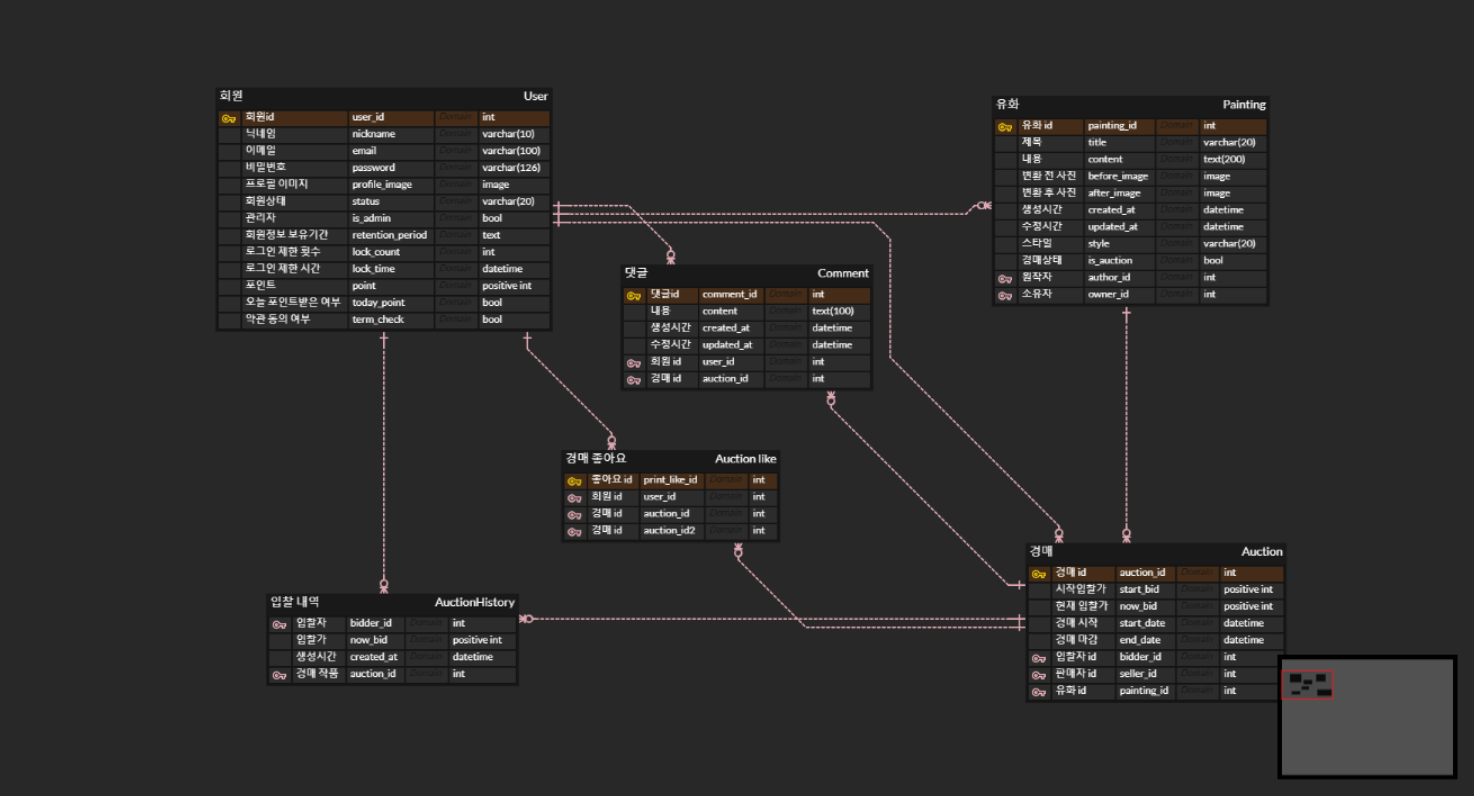
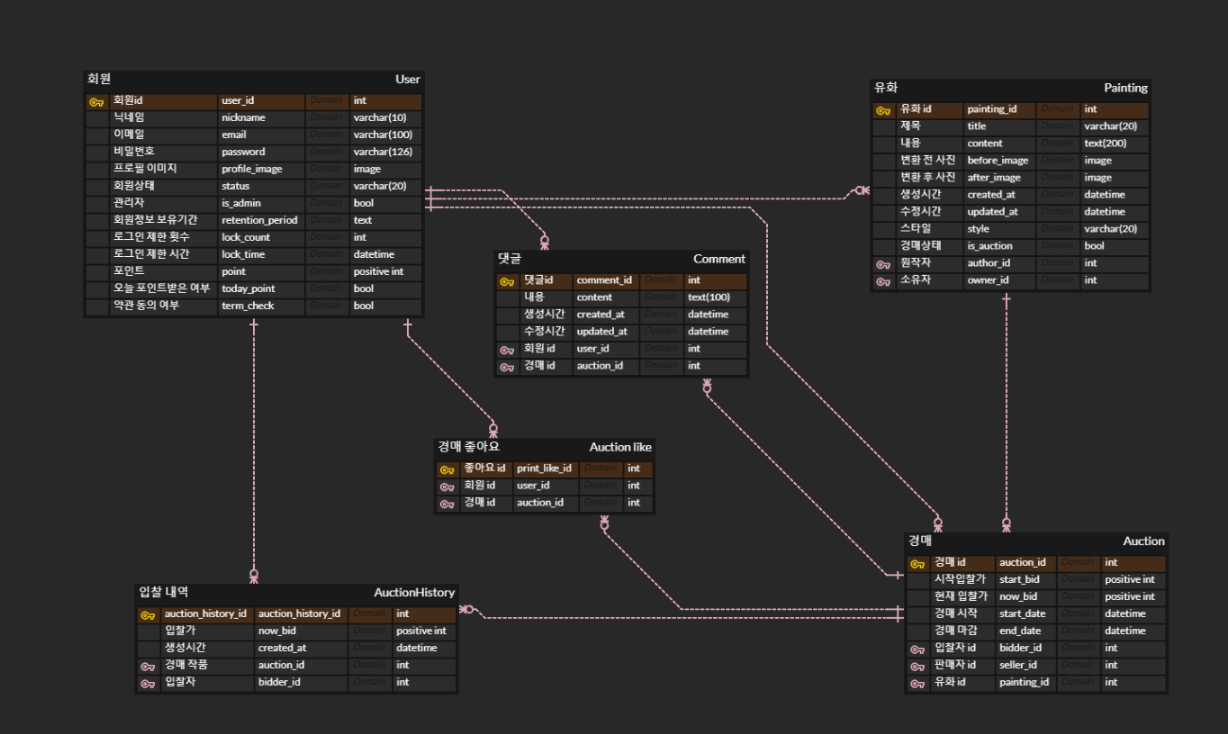
Docs : ERD 수정

diff --git a/static/script/search_api.js b/static/script/search_api.js
@@ -18,13 +18,15 @@ async function searchParam(){
             },
             method:'GET',
         })
-            response_json = await response.json()
-
+            const response_json = await response.json()
+            
         if(response_json.length){
-                const auction_search_view = document.getElementById("auction_search_view")
+            
+                response_json.forEach((item, key) => {
+                    console.log(item)
+                    console.log(item.painting[key])
 
-                response_json.forEach(item => {
-
+                    
                     function diffDay(data) {
                         const masTime = new Date(data);
                         const todayTime = new Date();
@@ -38,24 +40,23 @@ async function searchParam(){
                         return `${diffDay}일 ${diffHour}시간 ${diffMin}분 `;
                     }
     
-                    let remain_end_time = diffDay(item.paintings.end_date)
-                    
-                    const now_bid = item.paintings.now_bid.toString().replace(/\B(?<!\.\d*)(?=(\d{3})+(?!\d))/g, ",");
+                    let remain_end_time = diffDay(item.paintings[key].end_date)
+                    const now_bid = item.paintings[key].now_bid.toString().replace(/\B(?<!\.\d*)(?=(\d{3})+(?!\d))/g, ",");
 
                     $('#auction_search_view').append(
                         `
                         <div class="col-xxl-4 col-xl-4 col-lg-6 col-md-6 mb-6">
                             <div class="explore-style-one">
                                 <div class="thumb">
-                                <a href="auction_details.html?$id=${item.paintings.id}/"><img src="${backendBaseUrl}${item.paintings.painting.after_image}"
+                                <a href="auction_details.html?$id=${item.paintings[key].id}/"><img src="${backendBaseUrl}${item.paintings[key].painting.after_image}"
                                     alt="nft live auction thumbnail"></a>
-                                <button class="reaction-btn"><i class="ri-heart-fill"></i><span>${item.paintings.auction_like_count}</span></button>
+                                <button class="reaction-btn"><i class="ri-heart-fill"></i><span>${item.paintings[key].auction_like_count}</span></button>
                                 <!-- End .reaction-count -->
                                 </div>
                                 <!-- End .thumb -->
                                 <div class="content">
                                 <div class="header d-flex-between pt-4 pb-3">
-                                    <h3 class="title"><a href="auction_details.html">${item.paintings.painting.title}</a></h3>
+                                    <h3 class="title"><a href="auction_details.html">${item.paintings[key].painting.title}</a></h3>
                                 </div>
                                 <!-- .header -->
                                 <div class="product-share-wrapper">
@@ -67,7 +68,7 @@ async function searchParam(){
                                 </div>
                                 <!-- End product-share-wrapper -->
                                 <div class="product-owner py-4 d-flex-between">
-                                    <span class="bid-owner">Owned By <strong>${item.paintings.painting.owner}</strong></span>
+                                    <span class="bid-owner">Owned By <strong>${item.paintings[key].painting.owner}</strong></span>
                                 </div>
                                 <!-- End .product-owner -->
                                 </div>

diff --git a/static/script/index_api.js b/static/script/index_api.js
@@ -10,7 +10,7 @@ window.onload = async function AuctionAlllistView(){
     }
     )
     response_json = await response.json()
-    
+
     response_json.closing_auction.forEach(item => {
         function diffDay(data) {
             const masTime = new Date(data);
